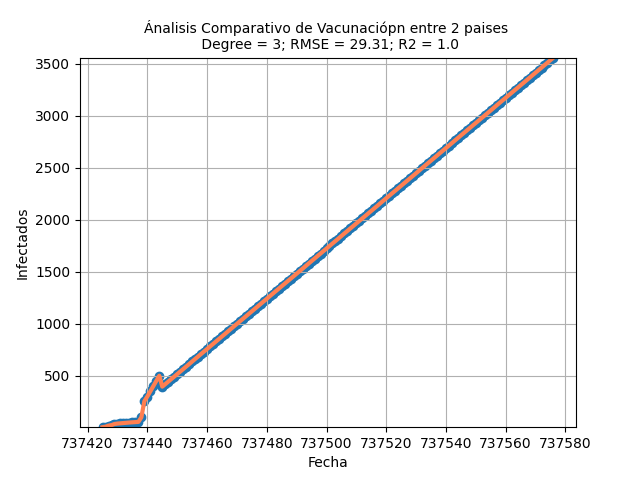
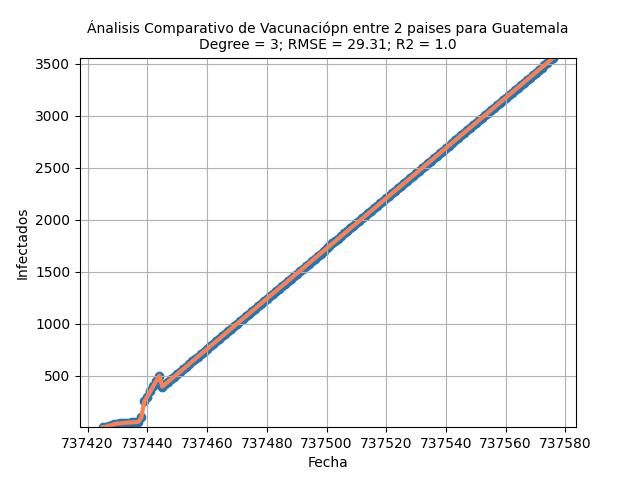
Reporte 10

Changed region(s): [[0.125, 0.0312, 0.875, 0.125]]

diff --git a/Proyecto/Templates/IEEErep10.html b/Proyecto/Templates/IEEErep10.html
@@ -36,26 +36,23 @@
         <table style="border: hidden" align="center">
             <tbody style="border: hidden">
                 <tr style="border: hidden">
-                    <th style="border: hidden" align="center">Tendencia de la vacunación de en un País</th>
+                    <th style="border: hidden" align="center">Ánalisis Comparativo de Vacunaciópn entre 2 paises.</th>
                     <td style="border: hidden"> </td>
                     <th style="border: hidden" align="center">Interpretacion:</th>
                 </tr>
 
                 <tr style="border: hidden">
-                    <td style="border: hidden">Las tendencias responden a distintos estímulos. En ocasiones son adoptadas
-                        lentamente, a lo largo de cambios en la cultura, mientras en otras ocurren por una
-                        masiva adopción causada por un fuerte estímulo externo. En un mundo dominado
-                        por enormes organizaciones que muchas veces se constituyen en reglas antiguas,
-                        un shock como el del COVID-19 puede generar grandes cambios en la forma que
-                        se opera la economía.
+                    <td style="border: hidden">En España la campaña de vacunación contra la COVID-19 se inició el 27 de
+                        diciembre. Desde que comenzó el proceso se priorizaron las inyecciones para las personas mayores
+                        y a medida que avanzaba se fue ampliando a otras franjas de edad. Ocho meses después, el 31 de
+                        agosto, se logró el objetivo de que el 70% de la población contara con la pauta completa contra
+                        la enfermedad, y los sueros ya llegan a prácticamente todos los grupos etarios.
                         <br>
-                        La gente elige en entornos familiares, rutinarios y seguros que les simplifican esa
-                        toma de decisiones, que muchas veces se vuelve automática. Pero la inestabilidad
-                        que ha traído el COVID-19 ha creado ambientes fuera de contexto, no familiares y
-                        sin predictibilidad. En este nuevo ambiente las empresas deben encontrar la forma
-                        de adaptarse para sobrevivir, porque la historia ha probado que incluso en la
-                        hostilidad de las crisis las empresas nuevas o innovadoras pueden prosperar.
-                        </td>
+                        Las vacunas de Pfizer, Moderna y AstraZeneca son de doble dosis: requieren de dos pinchazos
+                        separados por un periodo de varias semanas. Esto no aplica para las personas que en algún
+                        momento superaron la enfermedad, a las que sólo se les inocula una dosis. Las de Janssen, en
+                        cambio sólo requieren de una inyección.
+                    </td>
                     <td style="border: hidden"></td>
                     <td style="border: hidden"> {{descripcion}} </td>
                 </tr>
@@ -71,15 +68,19 @@
                     <td style="border: hidden"></td>
                     <td style="border: hidden"></td>
                 </tr>
-                
+
                 <tr style="border: hidden">
-                    <td style="border: hidden" align="center"><img src=" {{url_for('static', filename = 'Reportes/rep9.png')}}" alt="Una imagen" width="400" height="400"></td>
+                    <td style="border: hidden" align="center">
+                        <img src=" {{url_for('static', filename = 'Reportes/rep10.png')}}" alt="Una imagen" width="400" height="400">
+                    </td>
                     <td style="border: hidden"></td>
                     <td style="border: hidden"></td>
                 </tr>
 
                 <tr style="border: hidden">
-                    <td style="border: hidden"></td>
+                    <td style="border: hidden" align="center"> 
+                        <img src=" {{url_for('static', filename = 'Reportes/rep101.png')}}" alt="Una imagen" width="400" height="400"></td>
+                    </td>
                     <td style="border: hidden"></td>
                     <th style="border: hidden">Bibliografia</th>
                 </tr>
@@ -87,19 +88,23 @@
                 <tr style="border: hidden">
                     <td style="border: hidden"></td>
                     <td style="border: hidden"></td>
-                    <td style="border: hidden">https://scikit-learn.org/stable/modules/linear_model.html#bayesian-regression</td>
+                    <td style="border: hidden">
+                        https://scikit-learn.org/stable/modules/linear_model.html#bayesian-regression</td>
                 </tr>
 
                 <tr style="border: hidden">
                     <td style="border: hidden"></td>
                     <td style="border: hidden"></td>
-                    <td style="border: hidden">https://scikit-learn.org/stable/modules/linear_model.html#polynomial-regression-extending-linear-models-with-basis-functions</td>
+                    <td style="border: hidden">
+                        https://scikit-learn.org/stable/modules/linear_model.html#polynomial-regression-extending-linear-models-with-basis-functions
+                    </td>
                 </tr>
 
                 <tr style="border: hidden">
                     <td style="border: hidden"></td>
                     <td style="border: hidden"></td>
-                    <td style="border: hidden">https://github.com/harias25/olc2-diciembre-2021/tree/main/Proyecto%202</td>
+                    <td style="border: hidden">https://github.com/harias25/olc2-diciembre-2021/tree/main/Proyecto%202
+                    </td>
                 </tr>
             </tbody>
         </table>

diff --git a/Proyecto/template.py b/Proyecto/template.py
@@ -105,7 +105,7 @@ def Reporte1():
         descripcion = "Actualmente se esta viviendo una situacion a nivel mundial con la enfermedad de Covid-19, en lo cual todos los paises nos hemos vuelto muy suceptibles, por lo cual gracias a las herramientas actuales se puede decir que " + seleccion_rep1 + " se ve afectado de manera directa. Por lo cual realizando un analisis de regresion polinomial de grado 3, nos podemos dar cuenta que se tiene un error cuadrático medio de " + str(round(rmse,2)) + " este error medio nos indica la cantidad de de error que tenemos entre los conjuntos de datos " + " de fechas e infecciones que se estan dando en el pais este datos nos ayuda para poder evaluar la tendencia entre dos valores, ahora bien nos podemos dar cuenta que el valor del coeficiente de determinación " + str(round(r2,2)) + " indica que el modelo no explica ninguna porción de la variabilidad de los datos de respuesta en torno a su media es decir que los datos en este caso casi no se encuentran correlacionados ya que estan muy alejados de 1"
     elif(r2 < 0.75):
         descripcion = "Actualmente se esta viviendo una situacion a nivel mundial con la enfermedad de Covid-19, en lo cual todos los paises nos hemos vuelto muy suceptibles, por lo cual gracias a las herramientas actuales se puede decir que " + seleccion_rep1 + " se ve afectado de manera directa. Por lo cual realizando un analisis de regresion polinomial de grado 3, nos podemos dar cuenta que se tiene un error cuadrático medio de " + str(round(rmse,2)) + " este error medio nos indica la cantidad de de error que tenemos entre los conjuntos de datos " + " de fechas e infecciones que se estan dando en el pais este datos nos ayuda para poder evaluar la tendencia entre dos valores, ahora bien nos podemos dar cuenta que el valor del coeficiente de determinación " + str(round(r2,2)) + " indica que el modelo medio explica la porción de la variabilidad de los datos de respuesta en torno a su media es decir que los datos en este caso se encuentran un poco correlacionados ya que no estan muy alejados de 1"
-    elif(r2 < 0.95):
+    elif(r2 >= 0.95):
         descripcion = "Actualmente se esta viviendo una situacion a nivel mundial con la enfermedad de Covid-19, en lo cual todos los paises nos hemos vuelto muy suceptibles, por lo cual gracias a las herramientas actuales se puede decir que " + seleccion_rep1 + " se ve afectado de manera directa. Por lo cual realizando un analisis de regresion polinomial de grado 3, nos podemos dar cuenta que se tiene un error cuadrático medio de " + str(round(rmse,2)) + " este error medio nos indica la cantidad de de error que tenemos entre los conjuntos de datos " + " de fechas e infecciones que se estan dando en el pais este datos nos ayuda para poder evaluar la tendencia entre dos valores, ahora bien nos podemos dar cuenta que el valor del coeficiente de determinación " + str(round(r2,2)) + " indica que el modelo indica que el modelo explica toda la variabilidad de los datos de respuesta en torno a su media es decir que los datos en este caso se encuentran correlacionados ya que estan muy cercanos a 1"
     
 
@@ -214,7 +214,7 @@ def Reporte2():
         descripcion = "Actualmente se esta viviendo una situacion a nivel mundial con la enfermedad de Covid-19, en lo cual todos los paises nos hemos vuelto muy suceptibles, por lo cual gracias a las herramientas actuales se puede decir que " + seleccion_rep1 + " se ve afectado de manera directa. Por lo cual realizando un analisis de regresion polinomial de grado 3, nos podemos dar cuenta que se tiene un error cuadrático medio de " + str(round(rmse,2)) + " este error medio nos indica la cantidad de de error que tenemos entre los conjuntos de datos " + " de fechas e infecciones que se estan dando en el pais este datos nos ayuda para poder evaluar la tendencia entre dos valores, ahora bien nos podemos dar cuenta que el valor del coeficiente de determinación " + str(round(r2,2)) + " indica que el modelo no explica ninguna porción de la variabilidad de los datos de respuesta en torno a su media es decir que los datos en este caso casi no se encuentran correlacionados ya que estan muy alejados de 1." + "Con una prediccion de infectados de " + str(round(pred,2))
     elif(r2 < 0.75):
         descripcion = "Actualmente se esta viviendo una situacion a nivel mundial con la enfermedad de Covid-19, en lo cual todos los paises nos hemos vuelto muy suceptibles, por lo cual gracias a las herramientas actuales se puede decir que " + seleccion_rep1 + " se ve afectado de manera directa. Por lo cual realizando un analisis de regresion polinomial de grado 3, nos podemos dar cuenta que se tiene un error cuadrático medio de " + str(round(rmse,2)) + " este error medio nos indica la cantidad de de error que tenemos entre los conjuntos de datos " + " de fechas e infecciones que se estan dando en el pais este datos nos ayuda para poder evaluar la tendencia entre dos valores, ahora bien nos podemos dar cuenta que el valor del coeficiente de determinación " + str(round(r2,2)) + " indica que el modelo medio explica la porción de la variabilidad de los datos de respuesta en torno a su media es decir que los datos en este caso se encuentran un poco correlacionados ya que no estan muy alejados de 1." + "Con una prediccion de infectados de " + str(round(pred,2))
-    elif(r2 < 0.95):
+    elif(r2 >= 0.95):
         descripcion = "Actualmente se esta viviendo una situacion a nivel mundial con la enfermedad de Covid-19, en lo cual todos los paises nos hemos vuelto muy suceptibles, por lo cual gracias a las herramientas actuales se puede decir que " + seleccion_rep1 + " se ve afectado de manera directa. Por lo cual realizando un analisis de regresion polinomial de grado 3, nos podemos dar cuenta que se tiene un error cuadrático medio de " + str(round(rmse,2)) + " este error medio nos indica la cantidad de de error que tenemos entre los conjuntos de datos " + " de fechas e infecciones que se estan dando en el pais este datos nos ayuda para poder evaluar la tendencia entre dos valores, ahora bien nos podemos dar cuenta que el valor del coeficiente de determinación " + str(round(r2,2)) + " indica que el modelo indica que el modelo explica toda la variabilidad de los datos de respuesta en torno a su media es decir que los datos en este caso se encuentran correlacionados ya que estan muy cercanos a 1." + "Con una prediccion de infectados de " + str(round(pred,2))
     
     
@@ -320,7 +320,7 @@ def Reporte3():
             descripcion = "Actualmente se esta viviendo una situacion a nivel mundial con la enfermedad de Covid-19, en lo cual todos los paises nos hemos vuelto muy suceptibles, por lo cual gracias a las herramientas actuales se puede decir que " + "los paises " + " se ve afectados de manera directa. Por lo cual realizando un analisis de regresion polinomial de grado 3, nos podemos dar cuenta que se tiene un error cuadrático medio de " + str(round(rmse,2)) + " este error medio nos indica la cantidad de de error que tenemos entre los conjuntos de datos " + " de fechas e infecciones que se estan dando en el pais este datos nos ayuda para poder evaluar la tendencia entre dos valores, ahora bien nos podemos dar cuenta que el valor del coeficiente de determinación " + str(round(r2,2)) + " indica que el modelo no explica ninguna porción de la variabilidad de los datos de respuesta en torno a su media es decir que los datos en este caso casi no se encuentran correlacionados ya que estan muy alejados de 1." + "Con un indice de progresion positivo de " + str(pend)
         elif(r2 < 0.75):
             descripcion = "Actualmente se esta viviendo una situacion a nivel mundial con la enfermedad de Covid-19, en lo cual todos los paises nos hemos vuelto muy suceptibles, por lo cual gracias a las herramientas actuales se puede decir que " + "los paises " + " se ve afectados de manera directa. Por lo cual realizando un analisis de regresion polinomial de grado 3, nos podemos dar cuenta que se tiene un error cuadrático medio de " + str(round(rmse,2)) + " este error medio nos indica la cantidad de de error que tenemos entre los conjuntos de datos " + " de fechas e infecciones que se estan dando en el pais este datos nos ayuda para poder evaluar la tendencia entre dos valores, ahora bien nos podemos dar cuenta que el valor del coeficiente de determinación " + str(round(r2,2)) + " indica que el modelo medio explica la porción de la variabilidad de los datos de respuesta en torno a su media es decir que los datos en este caso se encuentran un poco correlacionados ya que no estan muy alejados de 1." + "Con un indice de progresion positivo de " + str(pend)
-        elif(r2 < 0.95):
+        elif(r2 >= 0.95):
             descripcion = "Actualmente se esta viviendo una situacion a nivel mundial con la enfermedad de Covid-19, en lo cual todos los paises nos hemos vuelto muy suceptibles, por lo cual gracias a las herramientas actuales se puede decir que " + "los paises " + " se ve afectados de manera directa. Por lo cual realizando un analisis de regresion polinomial de grado 3, nos podemos dar cuenta que se tiene un error cuadrático medio de " + str(round(rmse,2)) + " este error medio nos indica la cantidad de de error que tenemos entre los conjuntos de datos " + " de fechas e infecciones que se estan dando en el pais este datos nos ayuda para poder evaluar la tendencia entre dos valores, ahora bien nos podemos dar cuenta que el valor del coeficiente de determinación " + str(round(r2,2)) + " indica que el modelo indica que el modelo explica toda la variabilidad de los datos de respuesta en torno a su media es decir que los datos en este caso se encuentran correlacionados ya que estan muy cercanos a 1." + "Con un indice de progresion positivo de " + str(pend)
     elif(pend < 0):
         if(r2 < 0.25):
@@ -329,7 +329,7 @@ def Reporte3():
             descripcion = "Actualmente se esta viviendo una situacion a nivel mundial con la enfermedad de Covid-19, en lo cual todos los paises nos hemos vuelto muy suceptibles, por lo cual gracias a las herramientas actuales se puede decir que " + "los paises " + " se ve afectados de manera directa. Por lo cual realizando un analisis de regresion polinomial de grado 3, nos podemos dar cuenta que se tiene un error cuadrático medio de " + str(round(rmse,2)) + " este error medio nos indica la cantidad de de error que tenemos entre los conjuntos de datos " + " de fechas e infecciones que se estan dando en el pais este datos nos ayuda para poder evaluar la tendencia entre dos valores, ahora bien nos podemos dar cuenta que el valor del coeficiente de determinación " + str(round(r2,2)) + " indica que el modelo no explica ninguna porción de la variabilidad de los datos de respuesta en torno a su media es decir que los datos en este caso casi no se encuentran correlacionados ya que estan muy alejados de 1." + "Con un indice de progresion negativo de " + str(pend)
         elif(r2 < 0.75):
             descripcion = "Actualmente se esta viviendo una situacion a nivel mundial con la enfermedad de Covid-19, en lo cual todos los paises nos hemos vuelto muy suceptibles, por lo cual gracias a las herramientas actuales se puede decir que " + "los paises " + " se ve afectados de manera directa. Por lo cual realizando un analisis de regresion polinomial de grado 3, nos podemos dar cuenta que se tiene un error cuadrático medio de " + str(round(rmse,2)) + " este error medio nos indica la cantidad de de error que tenemos entre los conjuntos de datos " + " de fechas e infecciones que se estan dando en el pais este datos nos ayuda para poder evaluar la tendencia entre dos valores, ahora bien nos podemos dar cuenta que el valor del coeficiente de determinación " + str(round(r2,2)) + " indica que el modelo medio explica la porción de la variabilidad de los datos de respuesta en torno a su media es decir que los datos en este caso se encuentran un poco correlacionados ya que no estan muy alejados de 1." + "Con un indice de progresion negativo de " + str(pend)
-        elif(r2 < 0.95):
+        elif(r2 >= 0.95):
             descripcion = "Actualmente se esta viviendo una situacion a nivel mundial con la enfermedad de Covid-19, en lo cual todos los paises nos hemos vuelto muy suceptibles, por lo cual gracias a las herramientas actuales se puede decir que " + "los paises " + " se ve afectados de manera directa. Por lo cual realizando un analisis de regresion polinomial de grado 3, nos podemos dar cuenta que se tiene un error cuadrático medio de " + str(round(rmse,2)) + " este error medio nos indica la cantidad de de error que tenemos entre los conjuntos de datos " + " de fechas e infecciones que se estan dando en el pais este datos nos ayuda para poder evaluar la tendencia entre dos valores, ahora bien nos podemos dar cuenta que el valor del coeficiente de determinación " + str(round(r2,2)) + " indica que el modelo indica que el modelo explica toda la variabilidad de los datos de respuesta en torno a su media es decir que los datos en este caso se encuentran correlacionados ya que estan muy cercanos a 1." + "Con un indice de progresion negativo de " + str(pend)
         
 
@@ -740,7 +740,7 @@ def Reporte7():
         descripcion = "Actualmente se esta viviendo una situacion a nivel mundial con la enfermedad de Covid-19, en lo cual todos los paises nos hemos vuelto muy suceptibles, por lo cual gracias a las herramientas actuales se puede decir que " + seleccion_rep1 + " se ve afectado de manera directa. Por lo cual realizando un analisis de regresion polinomial de grado 3, nos podemos dar cuenta que se tiene un error cuadrático medio de " + str(round(rmse,2)) + " este error medio nos indica la cantidad de de error que tenemos entre los conjuntos de datos " + " de fechas e infecciones que se estan dando en el pais este datos nos ayuda para poder evaluar la tendencia entre dos valores, ahora bien nos podemos dar cuenta que el valor del coeficiente de determinación " + str(round(r2,2)) + " indica que el modelo no explica ninguna porción de la variabilidad de los datos de respuesta en torno a su media es decir que los datos en este caso casi no se encuentran correlacionados ya que estan muy alejados de 1"
     elif(r2 < 0.75):
         descripcion = "Actualmente se esta viviendo una situacion a nivel mundial con la enfermedad de Covid-19, en lo cual todos los paises nos hemos vuelto muy suceptibles, por lo cual gracias a las herramientas actuales se puede decir que " + seleccion_rep1 + " se ve afectado de manera directa. Por lo cual realizando un analisis de regresion polinomial de grado 3, nos podemos dar cuenta que se tiene un error cuadrático medio de " + str(round(rmse,2)) + " este error medio nos indica la cantidad de de error que tenemos entre los conjuntos de datos " + " de fechas e infecciones que se estan dando en el pais este datos nos ayuda para poder evaluar la tendencia entre dos valores, ahora bien nos podemos dar cuenta que el valor del coeficiente de determinación " + str(round(r2,2)) + " indica que el modelo medio explica la porción de la variabilidad de los datos de respuesta en torno a su media es decir que los datos en este caso se encuentran un poco correlacionados ya que no estan muy alejados de 1"
-    elif(r2 < 0.95):
+    elif(r2 >= 0.95):
         descripcion = "Actualmente se esta viviendo una situacion a nivel mundial con la enfermedad de Covid-19, en lo cual todos los paises nos hemos vuelto muy suceptibles, por lo cual gracias a las herramientas actuales se puede decir que " + seleccion_rep1 + " se ve afectado de manera directa. Por lo cual realizando un analisis de regresion polinomial de grado 3, nos podemos dar cuenta que se tiene un error cuadrático medio de " + str(round(rmse,2)) + " este error medio nos indica la cantidad de de error que tenemos entre los conjuntos de datos " + " de fechas e infecciones que se estan dando en el pais este datos nos ayuda para poder evaluar la tendencia entre dos valores, ahora bien nos podemos dar cuenta que el valor del coeficiente de determinación " + str(round(r2,2)) + " indica que el modelo indica que el modelo explica toda la variabilidad de los datos de respuesta en torno a su media es decir que los datos en este caso se encuentran correlacionados ya que estan muy cercanos a 1"
     
 
@@ -751,7 +751,6 @@ def Reporte7():
 @app.route("/mensajeenviado7/<descripcion>")
 def Mandarmensaje7(descripcion):
     return render_template('IEEErep7.html', descripcion = descripcion)
-
 
 
 #______________________________________________Reporte 9______________________________________________________
@@ -877,7 +876,6 @@ def Reporte10():
     x=np.asarray(df[df[pais]==seleccion_rep1]['date_ordinal']).reshape(-1,1)
     y=df[df[pais]==seleccion_rep1][ejey]
     
-
     plt.scatter(x,y)
 
     # regression transform
@@ -911,7 +909,7 @@ def Reporte10():
     #plt.xlim(x_new_min,x_new_max)
     plt.ylim(np.min(y),np.max(y))
     title = 'Degree = {}; RMSE = {}; R2 = {}'.format(poly_degree, round(rmse,2), round(r2,2))
-    plt.title("Ánalisis Comparativo de Vacunaciópn entre 2 paises para" + seleccion_rep1 + "\n" + title, fontsize=10)
+    plt.title("Ánalisis Comparativo de Vacunaciópn entre 2 paises para " + seleccion_rep1 + "\n" + title, fontsize=10)
     plt.xlabel('Fecha')
     plt.ylabel('Infectados')
 
@@ -962,7 +960,7 @@ def Reporte10():
     #plt.xlim(x_new_min,x_new_max)
     plt.ylim(np.min(y),np.max(y))
     title = 'Degree = {}; RMSE = {}; R2 = {}'.format(poly_degree, round(rmse,2), round(r2,2))
-    plt.title("Ánalisis Comparativo de Vacunaciópn entre 2 paises" + seleccion_rep2 + "\n" + title, fontsize=10)
+    plt.title("Ánalisis Comparativo de Vacunaciópn entre 2 paises " + seleccion_rep2 + "\n" + title, fontsize=10)
     plt.xlabel('Fecha')
     plt.ylabel('Infectados')
 
@@ -971,14 +969,7 @@ def Reporte10():
     plt.close()
 
 
-    if(r2 < 0.25):
-        descripcion = "Actualmente se esta viviendo una situacion a nivel mundial con la enfermedad de Covid-19, en lo cual todos los paises nos hemos vuelto muy suceptibles, por lo cual gracias a las herramientas actuales se puede decir que " + seleccion_rep1 + " se ve afectado de manera directa. Por lo cual realizando un analisis de regresion polinomial de grado 3, nos podemos dar cuenta que se tiene un error cuadrático medio de " + str(round(rmse,2)) + " este error medio nos indica la cantidad de de error que tenemos entre los conjuntos de datos " + " de fechas e infecciones que se estan dando en el pais este datos nos ayuda para poder evaluar la tendencia entre dos valores, ahora bien nos podemos dar cuenta que el valor del coeficiente de determinación " + str(round(r2,2)) + " indica que el modelo no explica ninguna porción de la variabilidad de los datos de respuesta en torno a su media es decir que los datos en este caso no se encuentran correlacionados ya que estan muy alejados de 1"
-    elif(r2 < 0.5):
-        descripcion = "Actualmente se esta viviendo una situacion a nivel mundial con la enfermedad de Covid-19, en lo cual todos los paises nos hemos vuelto muy suceptibles, por lo cual gracias a las herramientas actuales se puede decir que " + seleccion_rep1 + " se ve afectado de manera directa. Por lo cual realizando un analisis de regresion polinomial de grado 3, nos podemos dar cuenta que se tiene un error cuadrático medio de " + str(round(rmse,2)) + " este error medio nos indica la cantidad de de error que tenemos entre los conjuntos de datos " + " de fechas e infecciones que se estan dando en el pais este datos nos ayuda para poder evaluar la tendencia entre dos valores, ahora bien nos podemos dar cuenta que el valor del coeficiente de determinación " + str(round(r2,2)) + " indica que el modelo no explica ninguna porción de la variabilidad de los datos de respuesta en torno a su media es decir que los datos en este caso casi no se encuentran correlacionados ya que estan muy alejados de 1"
-    elif(r2 < 0.75):
-        descripcion = "Actualmente se esta viviendo una situacion a nivel mundial con la enfermedad de Covid-19, en lo cual todos los paises nos hemos vuelto muy suceptibles, por lo cual gracias a las herramientas actuales se puede decir que " + seleccion_rep1 + " se ve afectado de manera directa. Por lo cual realizando un analisis de regresion polinomial de grado 3, nos podemos dar cuenta que se tiene un error cuadrático medio de " + str(round(rmse,2)) + " este error medio nos indica la cantidad de de error que tenemos entre los conjuntos de datos " + " de fechas e infecciones que se estan dando en el pais este datos nos ayuda para poder evaluar la tendencia entre dos valores, ahora bien nos podemos dar cuenta que el valor del coeficiente de determinación " + str(round(r2,2)) + " indica que el modelo medio explica la porción de la variabilidad de los datos de respuesta en torno a su media es decir que los datos en este caso se encuentran un poco correlacionados ya que no estan muy alejados de 1"
-    elif(r2 >= 0.95):
-        descripcion = "Actualmente se esta viviendo una situacion a nivel mundial con la enfermedad de Covid-19, en lo cual todos los paises nos hemos vuelto muy suceptibles, por lo cual gracias a las herramientas actuales se puede decir que " + seleccion_rep1 + " se ve afectado de manera directa. Por lo cual realizando un analisis de regresion polinomial de grado 3, nos podemos dar cuenta que se tiene un error cuadrático medio de " + str(round(rmse,2)) + " este error medio nos indica la cantidad de de error que tenemos entre los conjuntos de datos " + " de fechas e infecciones que se estan dando en el pais este datos nos ayuda para poder evaluar la tendencia entre dos valores, ahora bien nos podemos dar cuenta que el valor del coeficiente de determinación " + str(round(r2,2)) + " indica que el modelo indica que el modelo explica toda la variabilidad de los datos de respuesta en torno a su media es decir que los datos en este caso se encuentran correlacionados ya que estan muy cercanos a 1"
+    descripcion = "Actualmente se esta viviendo una situacion a nivel mundial con la enfermedad de Covid-19, en lo cual todos los paises nos hemos vuelto muy suceptibles, por lo cual gracias a las herramientas actuales se puede decir que " + seleccion_rep1 + " " + seleccion_rep2 +" se ven afectados de manera directa. Por lo cual realizando un analisis de regresion polinomial de grado 3, nos podemos dar cuenta que se tiene un error cuadrático medio de " + str(round(rmse,2)) + " este error medio nos indica la cantidad de de error que tenemos entre los conjuntos de datos " + " de fechas e infecciones que se estan dando en el pais este datos nos ayuda para poder evaluar la tendencia entre dos valores, ahora bien nos podemos dar cuenta que el valor del coeficiente de determinación " + str(round(r2,2)) + " indica que el modelo indica que el modelo explica toda la variabilidad de los datos de respuesta en torno a su media, por lo cual nos podemos dar cuenta que los indices de vacunacion van subiendo ya que las personas estan tomando conciencia que se deben de vacunar, aunque aun falta bastante genente a la cual llegar con la vacuna"
     
 
     #descripcion = "Actualmente se esta viviendo una situacion a nivel mundial con la enfermedad de Covid-19, en lo cual todos los paises nos hemos vuelto muy suceptibles, por lo cual gracias a las herramientas actuales se puede decir que " + seleccion_rep1 + " se ve afectado de manera directa. Por lo cual realizando un analisis de regresion polinomial de grado 3, nos podemos dar cuenta que se tiene un error cuadrático medio de " + str(round(rmse,2)) + " este error medio nos indica la cantidad de de error que tenemos entre los conjuntos de datos " + " de fechas e infecciones que se estan dando en el pais este datos nos ayuda para poder evaluar la tendencia entre dos valores, ahora bien nos podemos dar cuenta que "
